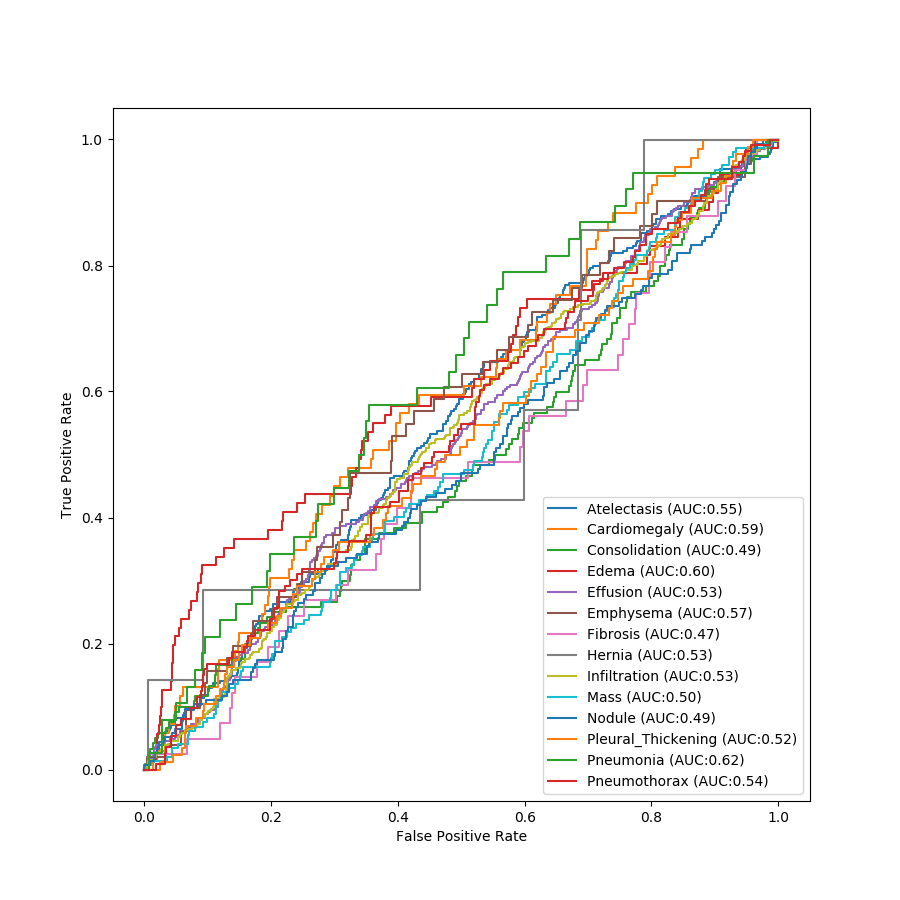
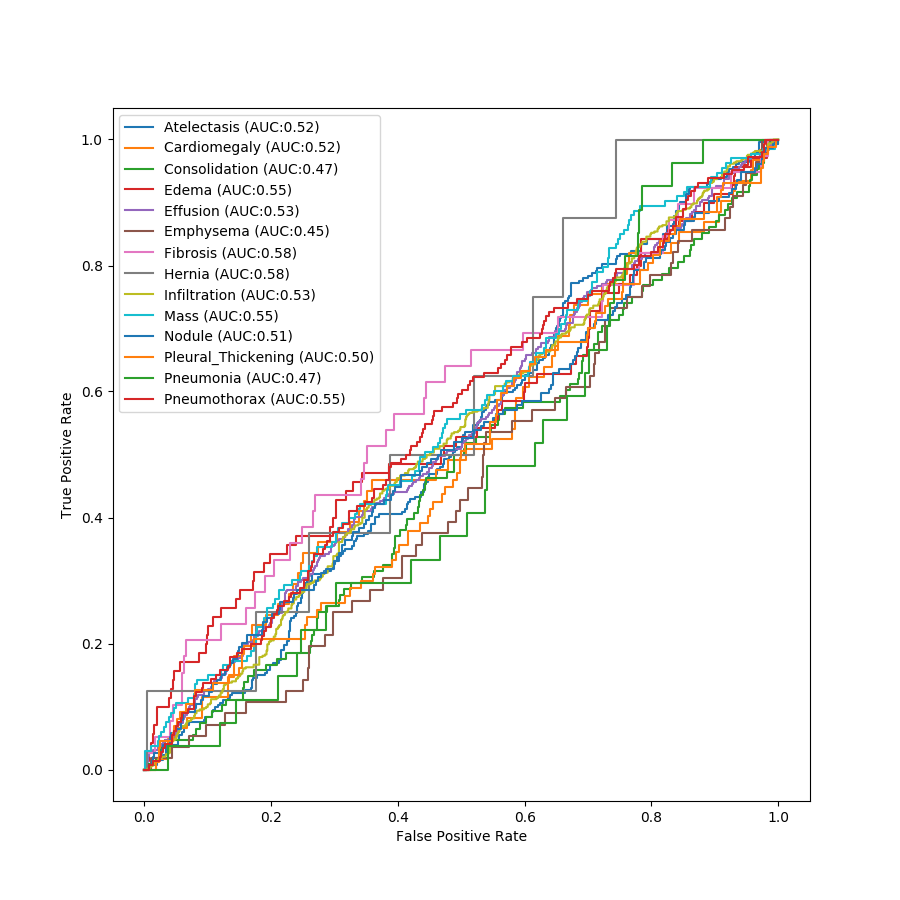
50_30 & 50_50

diff --git a/one_gpu_nih.py b/one_gpu_nih.py
@@ -39,7 +39,7 @@ df_sample = dataframe.sample(frac = 0.50)
 deasises = list(df_sample["Finding Labels"].unique())
 
 #train data set
-df_sample_train = df_sample.sample(frac = 0.30)
+df_sample_train = df_sample.sample(frac = 0.50)
 # isolated for the test
 df_sample_test = dataframe.drop(df_sample.index)
 
@@ -121,7 +121,7 @@ model.summary()
 
 history = model.fit(X_train, y_train, epochs = 100, batch_size=64, verbose=1, validation_data=(X_test, y_test), shuffle=True)
 
-model.save('../nih_sample/nih_model_50_30.h5')
+model.save('../nih_sample/nih_model_50_50.h5')
 def history_plot(history):
     plt.plot(history.history['acc'])
     plt.plot(history.history['val_acc'])
@@ -139,8 +139,10 @@ def history_plot(history):
     plt.show()
 
 # history_plot(history)
-model.evaluate(X_test, y_test, verbose=1)
+score, acc = model.evaluate(X_test, y_test, batch_size=64)
 predictions = model.predict(X_test, batch_size = 64, verbose = True)
+print('Score', score)
+print('Accuracy', acc)
 
 from sklearn.metrics import roc_curve, auc
 
@@ -152,7 +154,7 @@ plt.title('model accuracy')
 plt.ylabel('accuracy')
 plt.xlabel('epoch')
 plt.legend(['train', 'test'], loc='upper left')
-plt.savefig('accuracy_50_30.png')
+plt.savefig('accuracy_50_50.png')
 
 # summarize history for loss
 plt.plot(history.history['loss'])
@@ -161,7 +163,7 @@ plt.title('model loss')
 plt.ylabel('loss')
 plt.xlabel('epoch')
 plt.legend(['train', 'test'], loc='upper left')
-plt.savefig('loss_50_30.png')
+plt.savefig('loss_50_50.png')
 
 
 fig, c_ax = plt.subplots(1,1, figsize = (9, 9))
@@ -171,7 +173,7 @@ for (idx, c_label) in enumerate(all_labels):
 c_ax.legend()
 c_ax.set_xlabel('False Positive Rate')
 c_ax.set_ylabel('True Positive Rate')
-fig.savefig('trained_net_50_30.png')
+fig.savefig('trained_net_50_50.png')
 
 
 sickest_idx = np.argsort(np.sum(y_test, 1)<1)
@@ -183,7 +185,7 @@ for (idx, c_ax) in zip(sickest_idx, m_axs.flatten()):
     for n_class, n_score, p_score in zip(all_labels, y_test[idx], predictions[idx]) if (n_score>0.5) or (p_score>0.5)]
     c_ax.set_title('Dx: '+', '.join(stat_str)+'\nPDx: '+', '.join(pred_str))
     c_ax.axis('off')
-fig.savefig('trained_img_predictions_50_30.png')
+fig.savefig('trained_img_predictions_50_50.png')
 
 
 

diff --git a/notes.md b/notes.md
@@ -16,8 +16,8 @@ NIH sample
 | ----- | ------------- | ----------------- | --------------- | ------------------- |
 | 0%   | .06           | .95               | .60             | .89                 |
 | 10%   | .01          | .99               | .93             | .84                 |
-| 30%   | .10          | .92               | .45             | .87                 |
-| 50%   | .14           | .90              | .48             | .87                 |
+| 30%   | .01          | .99               | .95             | .80                 |
+| 50%   | .03           | .98              | 1.49             | .87                 |
 
 
 
